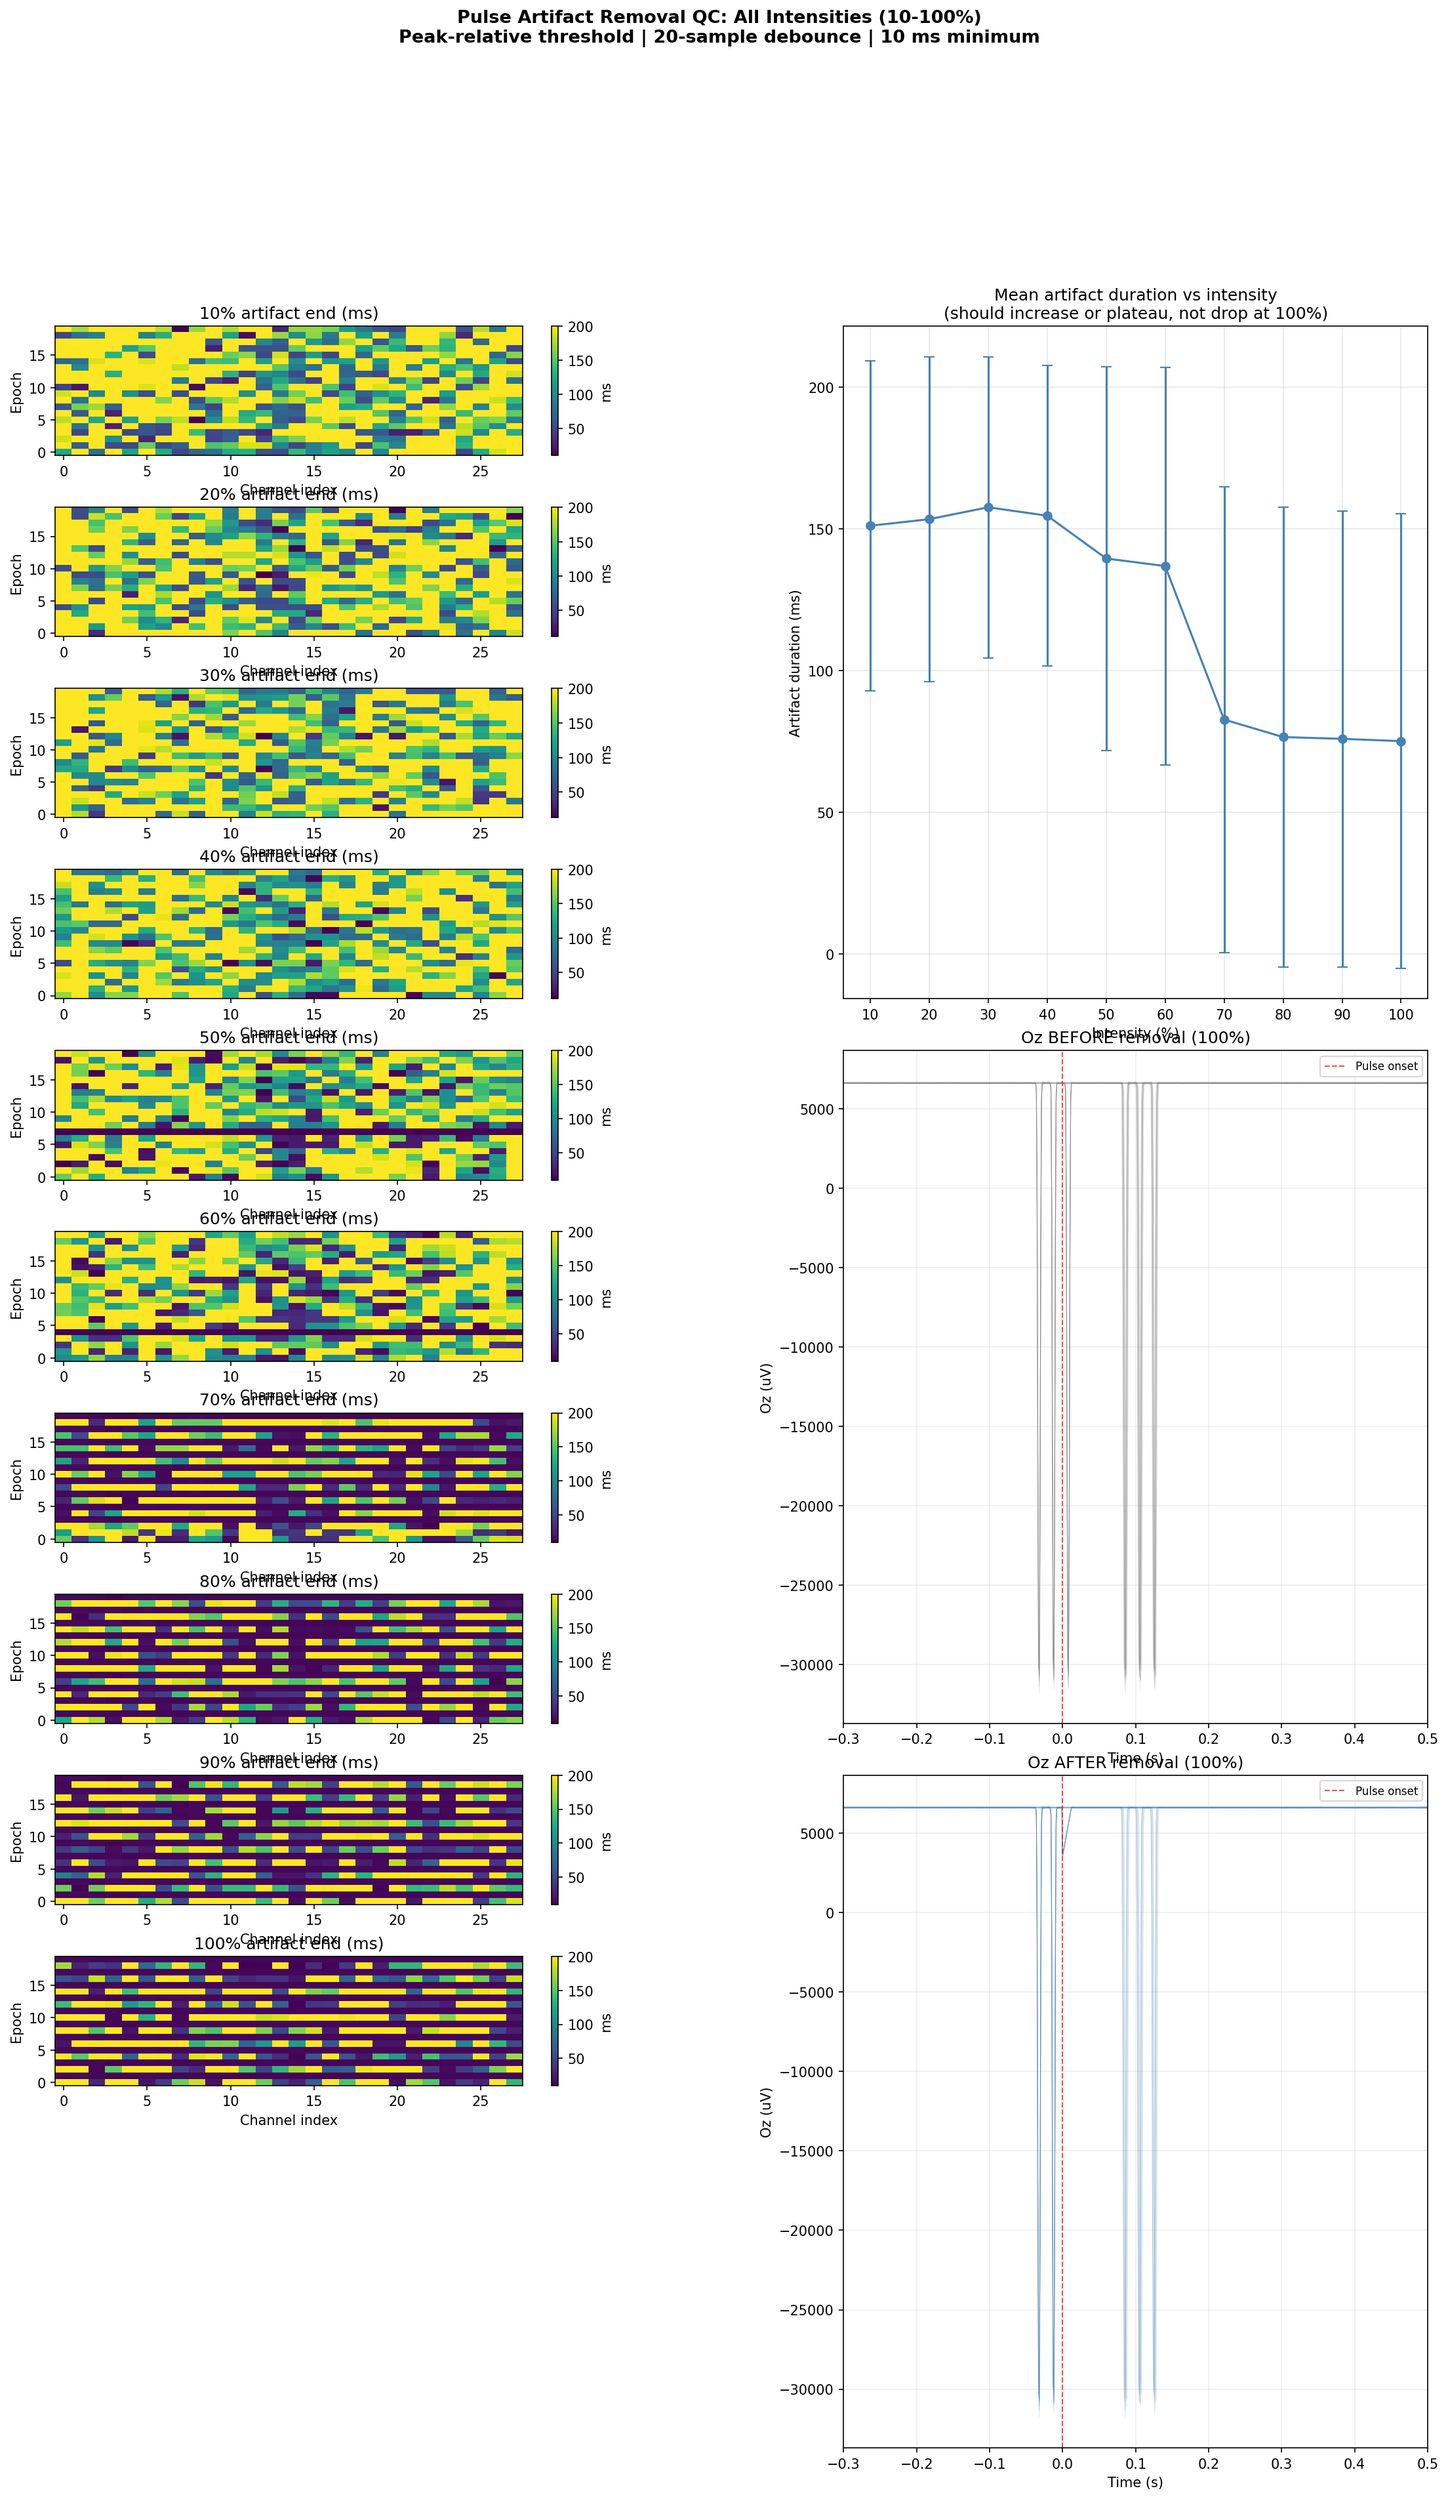
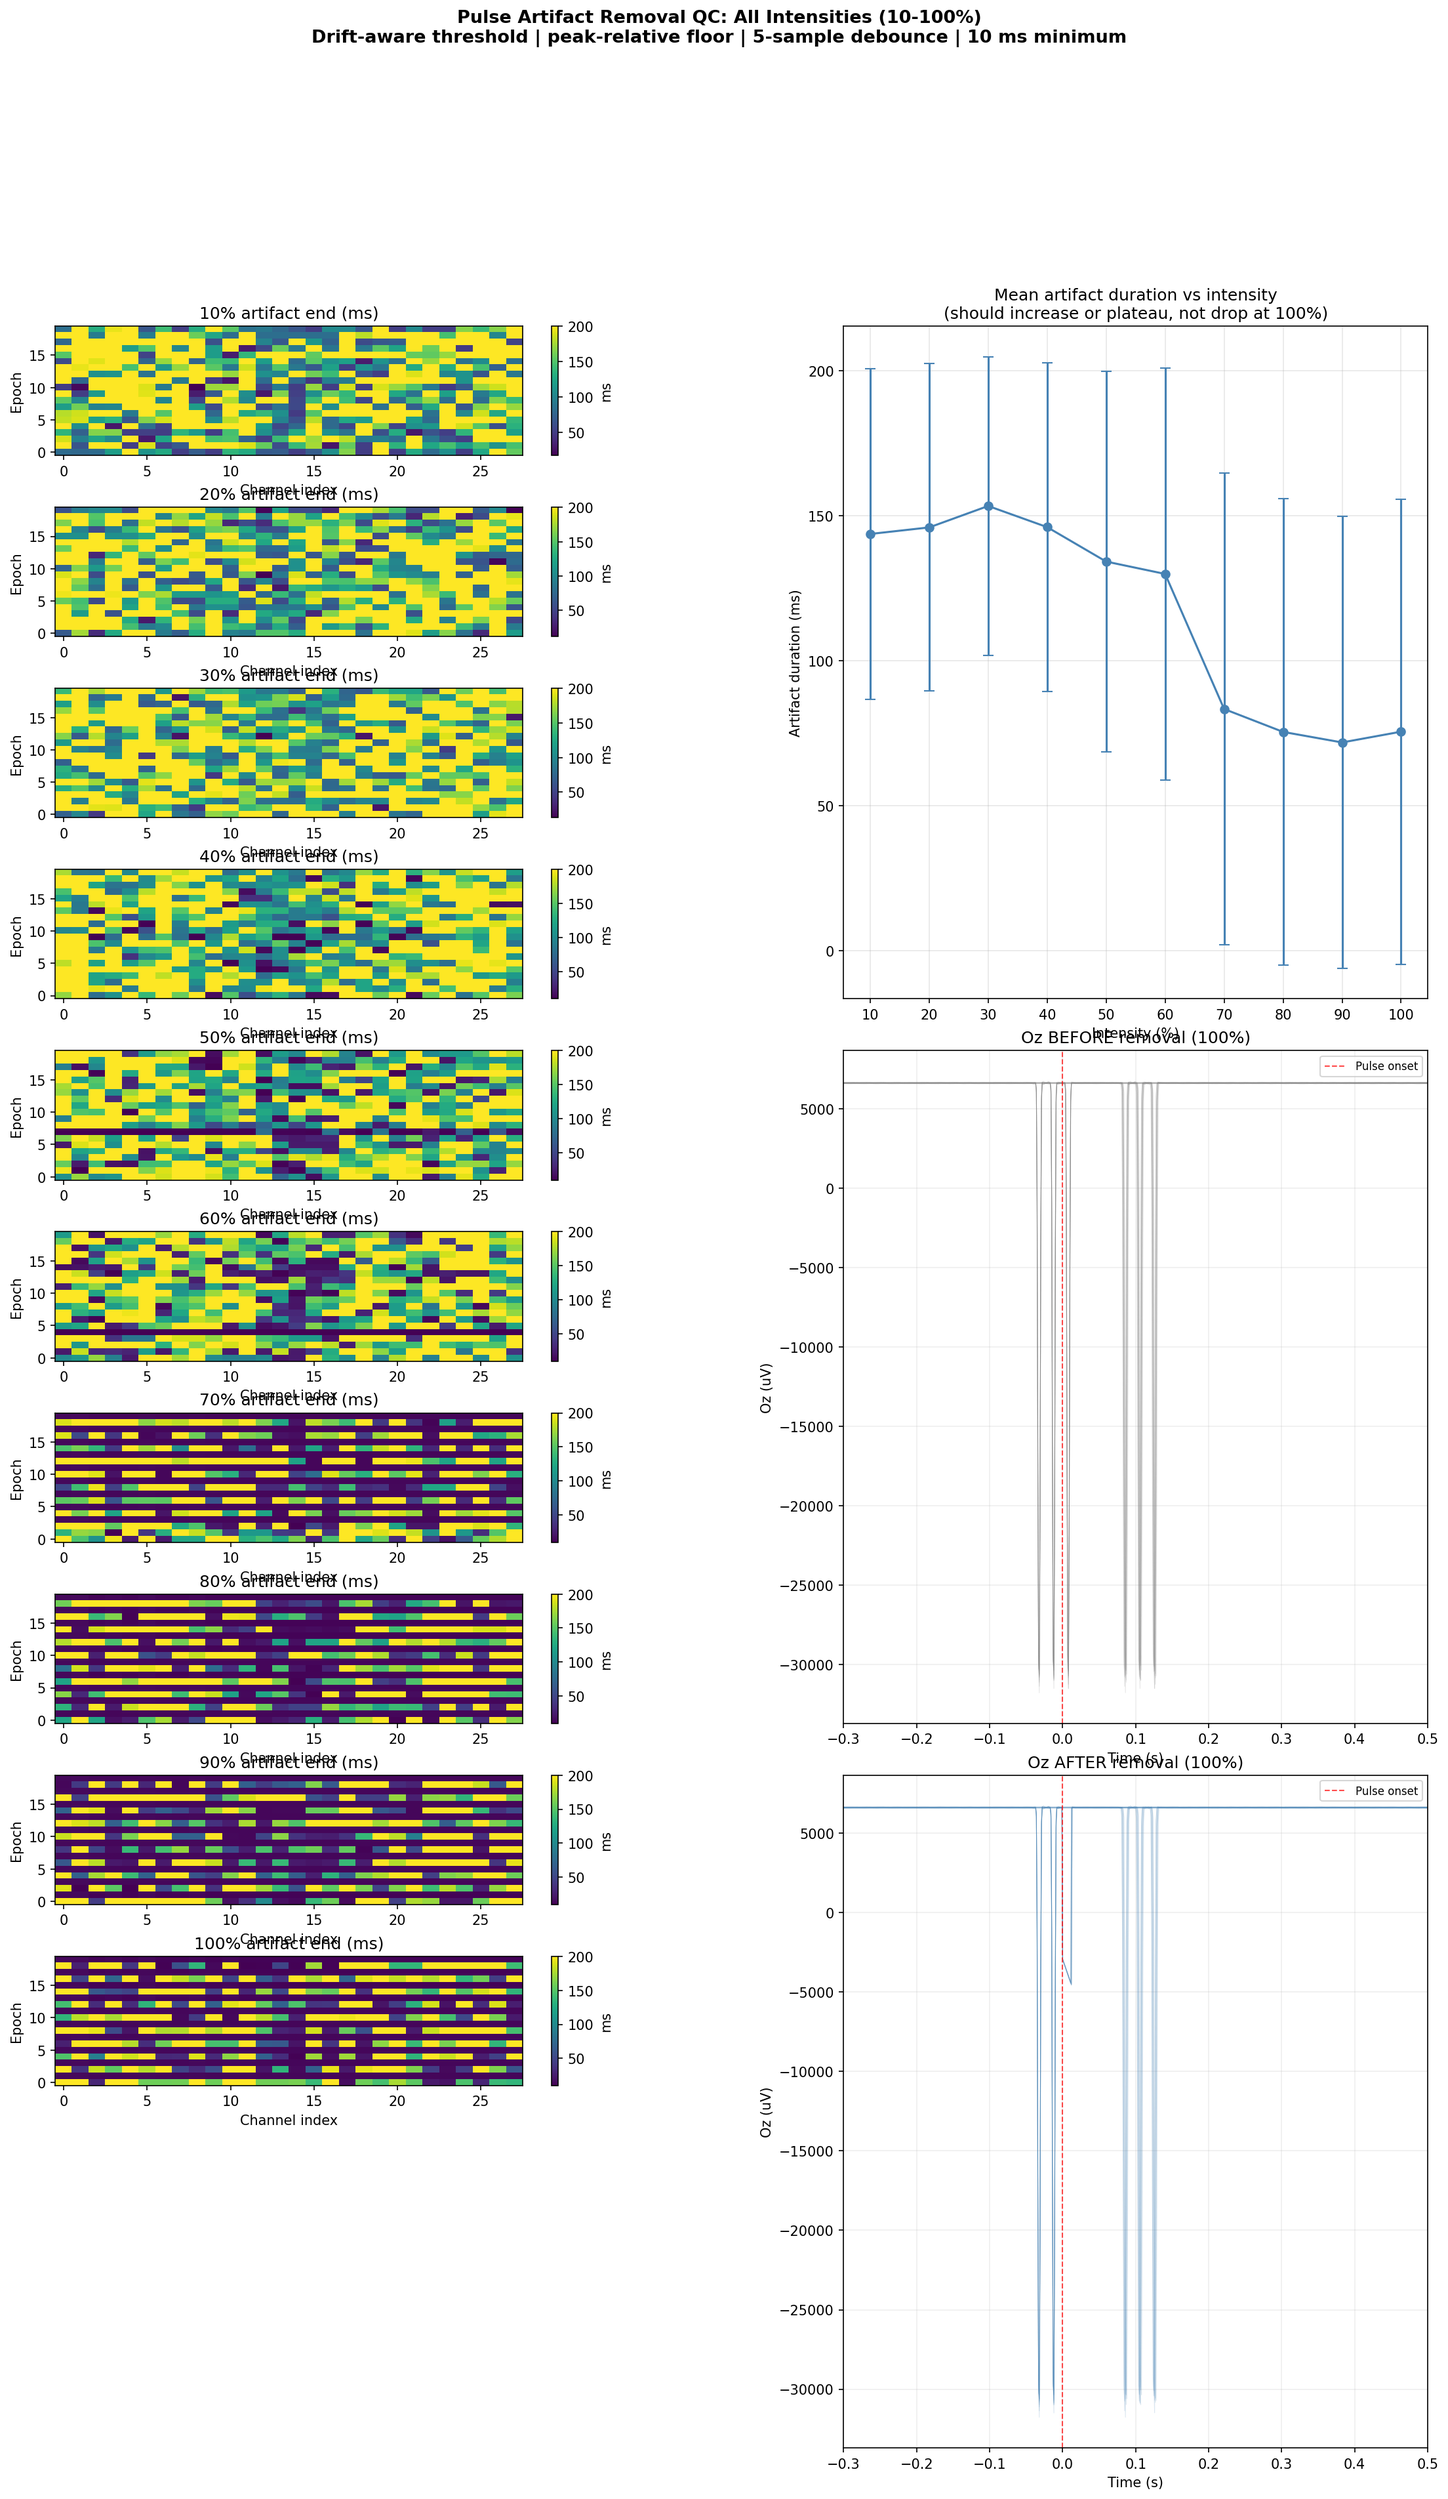
Replace static baseline with drift-aware threshold and interpolation
At 100% intensity the pre-pulse signal drifts at up to -3000 uV/s (residual from
previous pulse). Comparing the post-pulse spike against a frozen baseline_mean caused
false early detections. Fix:
- Fit linear trend (np.polyfit) to pre-pulse window per epoch/channel
- Detection compares |signal - expected(t)| against drift-extrapolated baseline
- Interpolation fills spike window with expected(t=0) -> expected(t=artifact_end),
  preserving the ongoing slow drift rather than replacing it with a flat ramp
- residual_std (signal minus trend fit) replaces raw std as noise floor estimate

Slow exponential decay is expected physics and is intentionally preserved.

diff --git a/explore_exp08_pulse_artifact_removal.py b/explore_exp08_pulse_artifact_removal.py
@@ -38,85 +38,103 @@ ALL_INTENSITIES = [10, 20, 30, 40, 50, 60, 70, 80, 90, 100]
 #   4) QC visualization (heatmaps per intensity + before/after Oz overlay at 100%)
 # ════════════════════════════════════════════════════════════════════════════
 
+def _fit_drift(signal, times, baseline_start_idx, baseline_end_idx):
+    """
+    Fit a linear trend to the pre-pulse baseline window.
+
+    Returns slope, intercept such that expected(t) = slope * t + intercept.
+    Also returns residual_std: std of signal around the fitted trend (true noise floor,
+    not inflated by drift as a plain std() would be).
+    """
+    pre_times = times[baseline_start_idx:baseline_end_idx]
+    pre_values = signal[baseline_start_idx:baseline_end_idx]
+    slope, intercept = np.polyfit(pre_times, pre_values, 1)
+    residual_std = (pre_values - (slope * pre_times + intercept)).std()
+    return slope, intercept, residual_std
+
+
 def detect_artifact_end(signal, times, baseline_start_ms, baseline_end_ms,
                         k_threshold, peak_fraction, min_artifact_ms,
                         debounce_samples, max_artifact_ms, sfreq):
     """
-    Detect artifact recovery point via amplitude threshold + peak-relative floor.
+    Detect artifact recovery point using a drift-aware amplitude threshold.
 
-    For this (epoch, channel):
-    1. Compute baseline mean and std over pre-pulse window
-    2. Find peak amplitude in first 5 ms post-pulse
-    3. Threshold = max(k*baseline_std, peak_fraction * peak_amplitude)
-       — scales with artifact size so large artifacts need proportionally larger recovery
-    4. Walk forward from pulse onset until |signal - baseline_mean| < threshold AND
-       signal is decreasing towards baseline (rate of change < small threshold)
-       for debounce_samples consecutive samples
-    5. Enforce minimum artifact window (signal is 15 ms wide; can't recover before that)
-    6. Return the sample index of artifact end
+    The pre-pulse baseline is modelled as a linear trend (slope + intercept) rather
+    than a fixed mean. At 100% intensity the signal drifts at up to -3000 uV/s because
+    the previous pulse's artifact hasn't settled. Comparing the post-pulse signal against
+    a frozen baseline_mean causes false detections; comparing against the extrapolated
+    trend correctly asks "has the spike returned to where the signal would have been
+    without the pulse?"
 
-    Returns: artifact_end_sample (int, relative to pulse onset t=0)
+    For each (epoch, channel):
+    1. Fit linear trend to pre-pulse window → slope, intercept, residual_std
+    2. expected(t) = slope * t + intercept
+    3. Peak amplitude = max deviation from expected in first 5 ms post-pulse
+    4. Threshold = max(k * residual_std, peak_fraction * peak_amplitude)
+    5. Walk forward from MIN_ARTIFACT_MS; at each sample compare |signal - expected(t)|
+       for debounce_samples consecutive samples below threshold
+    6. Return artifact_end_sample relative to t=0
+
+    Returns: artifact_end_sample (int, samples relative to pulse onset)
     """
-    # Convert ms to sample indices
     t_zero_idx = np.argmin(np.abs(times))
     baseline_start_idx = np.argmin(np.abs(times - baseline_start_ms / 1000))
     baseline_end_idx = np.argmin(np.abs(times - baseline_end_ms / 1000))
     max_artifact_samples = int(max_artifact_ms / 1000 * sfreq)
     min_artifact_samples = int(min_artifact_ms / 1000 * sfreq)
-    peak_window_samples = int(0.005 * sfreq)  # 5 ms peak detection window
+    peak_window_samples = int(0.005 * sfreq)  # 5 ms peak window
 
-    # Compute baseline stats from pre-pulse window
-    baseline_values = signal[baseline_start_idx:baseline_end_idx]
-    baseline_mean = baseline_values.mean()
-    baseline_std = baseline_values.std()
+    # Fit drift model to pre-pulse window
+    slope, intercept, residual_std = _fit_drift(signal, times, baseline_start_idx, baseline_end_idx)
 
-    # Peak amplitude in first 5 ms post-pulse
+    # Peak deviation from extrapolated trend in first 5 ms post-pulse
     peak_end = min(t_zero_idx + peak_window_samples, len(signal))
-    peak_amp = np.max(np.abs(signal[t_zero_idx:peak_end] - baseline_mean))
+    peak_amp = np.max(np.abs(signal[t_zero_idx:peak_end] - (slope * times[t_zero_idx:peak_end] + intercept)))
 
-    # Threshold: larger of k*std (baseline noise floor) and peak_fraction*peak (artifact-relative floor)
-    # → ensures large artifacts require proportional recovery, not just crossing a small noise threshold
-    threshold = max(k_threshold * baseline_std, peak_fraction * peak_amp)
+    # Threshold: noise floor OR artifact-relative floor — whichever is larger
+    threshold = max(k_threshold * residual_std, peak_fraction * peak_amp)
 
-    # Walk forward from pulse onset, looking for sustained recovery
+    # Walk forward from minimum artifact window, testing deviation from extrapolated trend
     artifact_end_sample = None
     sub_threshold_count = 0
 
-    walk_start = t_zero_idx + min_artifact_samples  # enforce minimum artifact window
+    walk_start = t_zero_idx + min_artifact_samples
     for sample_idx in range(walk_start, min(t_zero_idx + max_artifact_samples, len(signal))):
-        current_dev = np.abs(signal[sample_idx] - baseline_mean)
-        prev_dev = np.abs(signal[sample_idx - 1] - baseline_mean)
+        expected_now  = slope * times[sample_idx]     + intercept
+        expected_prev = slope * times[sample_idx - 1] + intercept
+        current_dev = np.abs(signal[sample_idx]     - expected_now)
+        prev_dev    = np.abs(signal[sample_idx - 1] - expected_prev)
 
-        # Two conditions: (1) close to baseline, (2) stable or decreasing
-        is_close = current_dev < threshold
-        is_stable_or_decreasing = current_dev <= prev_dev * 1.1  # Allow 10% wiggle for noise
+        is_close             = current_dev < threshold
+        is_stable_or_decreasing = current_dev <= prev_dev * 1.1  # 10% wiggle for noise
 
         if is_close and is_stable_or_decreasing:
             sub_threshold_count += 1
             if sub_threshold_count >= debounce_samples:
-                # Confirmed recovery: return the first sample of the debounce window
                 artifact_end_sample = sample_idx - debounce_samples + 1
                 break
         else:
             sub_threshold_count = 0
 
-    # If no recovery detected, cap at max_artifact_samples
     if artifact_end_sample is None:
         artifact_end_sample = min(t_zero_idx + max_artifact_samples, len(signal) - 1)
 
-    # Return sample index relative to pulse onset (t_zero_idx)
     return artifact_end_sample - t_zero_idx
 
 
 def remove_pulse_artifact(epochs, config):
     """
-    Remove pulse artifact from epochs via per-epoch per-channel threshold detection + interpolation.
+    Remove pulse artifact from epochs via drift-aware detection + interpolation.
 
     For each (epoch, channel):
-    1. Detect artifact_end_sample using amplitude threshold (peak-relative floor)
-    2. Extract pre-baseline (−100 to −5 ms) and post-baseline (10 ms after artifact_end)
-    3. Linearly interpolate from pre to post across artifact region
-    4. Replace [pulse_onset : artifact_end] with interpolation
+    1. Fit linear drift to pre-pulse window (slope + intercept)
+    2. Detect artifact_end via drift-relative threshold
+    3. Interpolate from expected(t=0) to expected(t=artifact_end)
+       — fills artifact window with the drift continuation, not a flat ramp
+    4. Replace [pulse_onset : artifact_end] with this interpolation
+
+    The slow post-pulse exponential decay (expected physics) is preserved — only
+    the acute spike region is replaced.
 
     Returns: cleaned epochs, artifact_end_samples array
     """
@@ -125,20 +143,20 @@ def remove_pulse_artifact(epochs, config):
     times = epochs_clean.times
     sfreq = epochs_clean.info['sfreq']
 
-    # Time indices for baseline windows
     pre_base_start_idx = np.argmin(np.abs(times - config['PRE_BASELINE_START_MS'] / 1000))
-    pre_base_end_idx = np.argmin(np.abs(times - config['PRE_BASELINE_END_MS'] / 1000))
+    pre_base_end_idx   = np.argmin(np.abs(times - config['PRE_BASELINE_END_MS'] / 1000))
     t_zero_idx = np.argmin(np.abs(times))
 
-    # Storage for artifact_end_samples (for QC visualization)
     artifact_end_samples = np.zeros((data.shape[0], data.shape[1]), dtype=int)
 
-    # Loop: epoch x channel
     for ep_idx in range(data.shape[0]):
         for ch_idx in range(data.shape[1]):
             signal = data[ep_idx, ch_idx, :]
 
-            # Step 1: Detect artifact end for this epoch/channel
+            # Step 1: Fit drift model to pre-pulse window
+            slope, intercept, _ = _fit_drift(signal, times, pre_base_start_idx, pre_base_end_idx)
+
+            # Step 2: Detect artifact end (drift-relative)
             artifact_end_sample = detect_artifact_end(
                 signal, times,
                 config['PRE_BASELINE_START_MS'],
@@ -152,23 +170,21 @@ def remove_pulse_artifact(epochs, config):
             )
             artifact_end_samples[ep_idx, ch_idx] = artifact_end_sample
 
-            # Step 2: Compute pre- and post-anchors
-            pre_baseline_mean = signal[pre_base_start_idx:pre_base_end_idx].mean()
-            post_anchor_start_idx = t_zero_idx + artifact_end_sample
-            post_anchor_end_idx = min(post_anchor_start_idx + config['POST_ANCHOR_SAMPLES'], len(signal))
-            post_baseline_mean = signal[post_anchor_start_idx:post_anchor_end_idx].mean()
+            # Step 3: Anchors from extrapolated trend — not the raw signal
+            # pre_anchor:  expected value at pulse onset (t=0)
+            # post_anchor: expected value at artifact_end (where drift would have taken the signal)
+            t_zero   = times[t_zero_idx]
+            t_end    = times[t_zero_idx + artifact_end_sample]
+            pre_anchor  = slope * t_zero + intercept
+            post_anchor = slope * t_end  + intercept
 
-            # Step 3: Create linear interpolation
+            # Step 4: Replace artifact region with drift-continuation ramp
             artifact_region_samples = artifact_end_sample
             if artifact_region_samples > 0:
-                interp = np.linspace(pre_baseline_mean, post_baseline_mean, artifact_region_samples)
-
-                # Step 4: Replace artifact region
+                interp = np.linspace(pre_anchor, post_anchor, artifact_region_samples)
                 data[ep_idx, ch_idx, t_zero_idx:t_zero_idx + artifact_region_samples] = interp
 
-    # Update epochs with cleaned data
     epochs_clean._data = data
-
     return epochs_clean, artifact_end_samples
 
 
@@ -279,7 +295,7 @@ if match_100:
 
 fig.suptitle(
     'Pulse Artifact Removal QC: All Intensities (10-100%)\n'
-    'Peak-relative threshold | 20-sample debounce | 10 ms minimum',
+    'Drift-aware threshold | peak-relative floor | 5-sample debounce | 10 ms minimum',
     fontsize=13, fontweight='bold', y=0.995
 )
 
